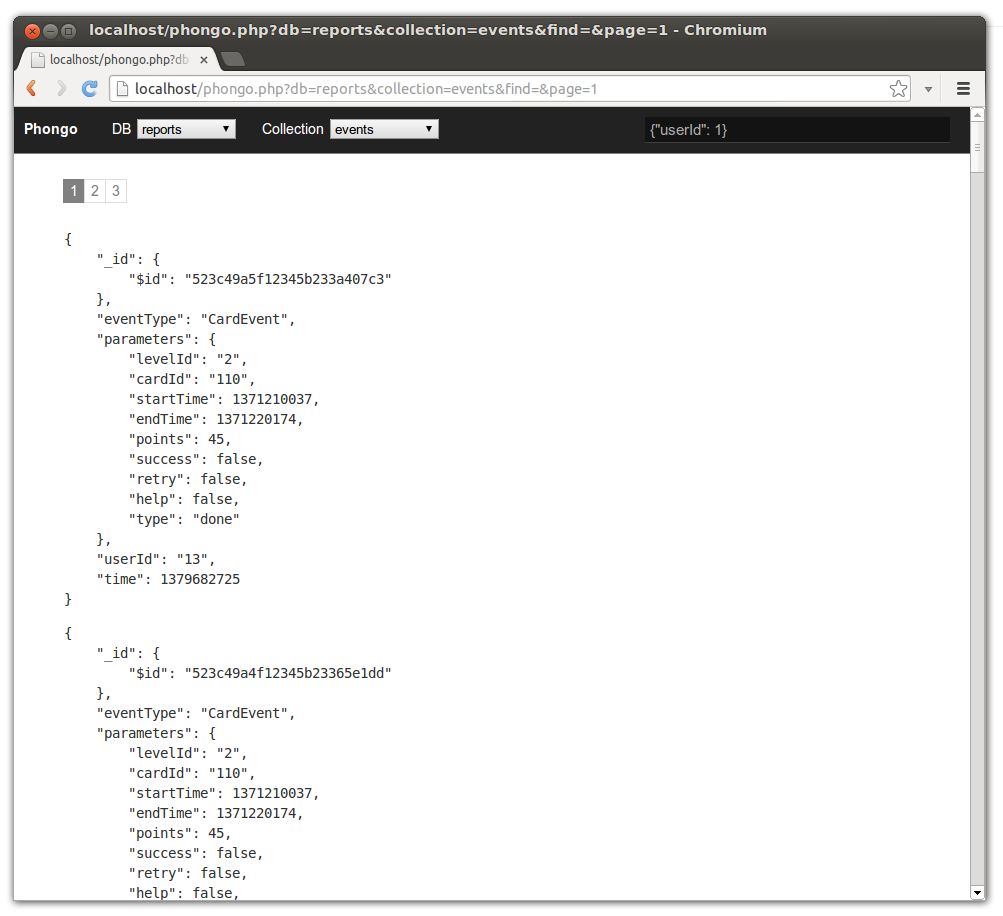
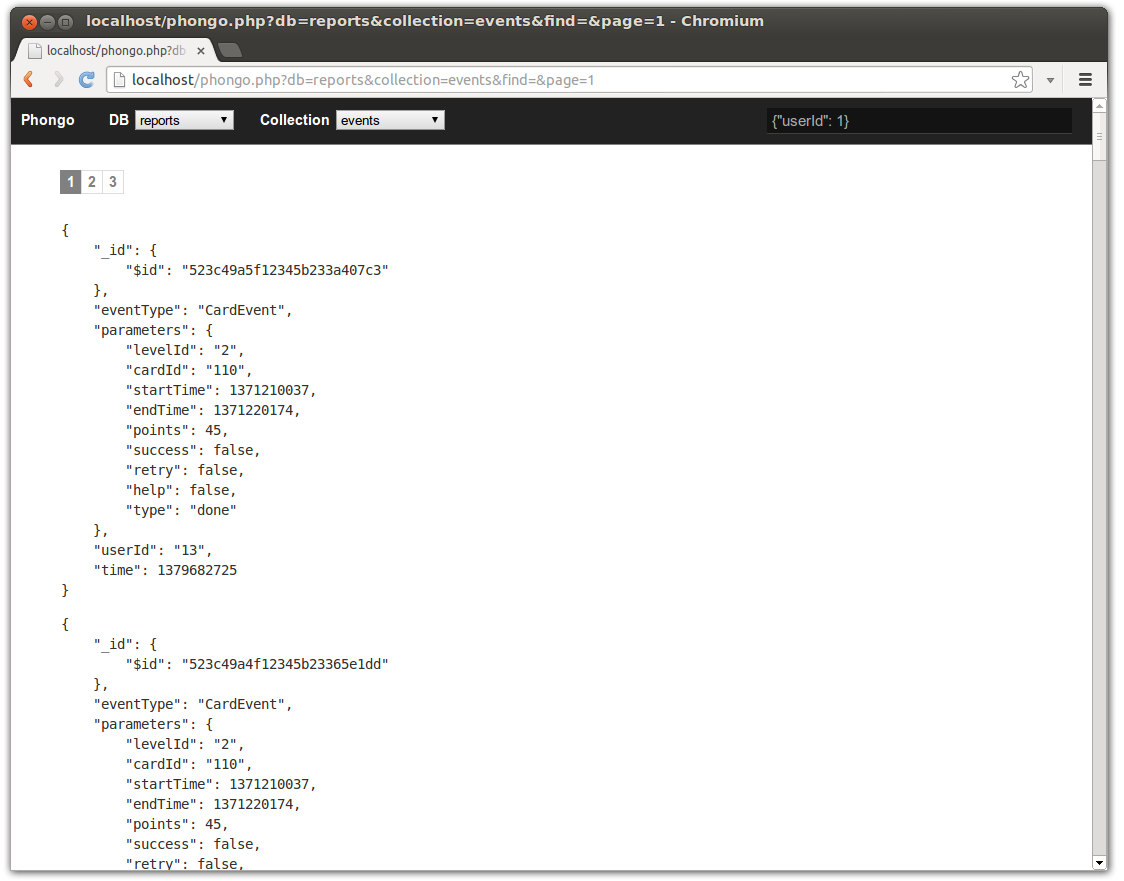
New style

Changed region(s): [[0.0, 0.0, 0.989, 1.0], [0.0927, 0.2758, 0.3709, 0.6742]]

diff --git a/phongo.php b/phongo.php
@@ -204,6 +204,7 @@ namespace template { ?>
             margin: 60px 0 0 50px;
         }
         .pagination {
+            font-weight: bold;
             display: inline-block;
             padding-left: 0;
         }
@@ -254,6 +255,7 @@ namespace template { ?>
             color: #d44950
         }
         #header {
+            font-weight: bold;
             background-color: #222222;
             min-width: 670px;
             width: 100%;
